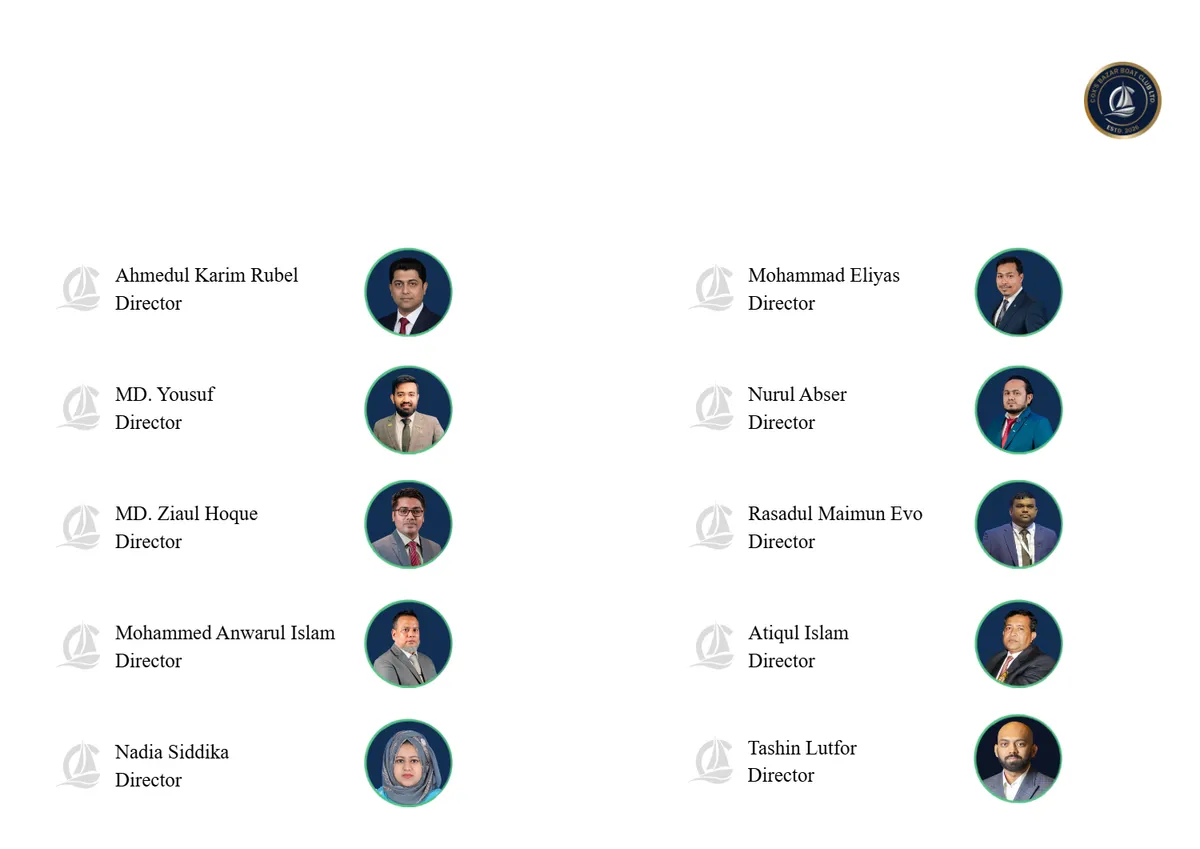
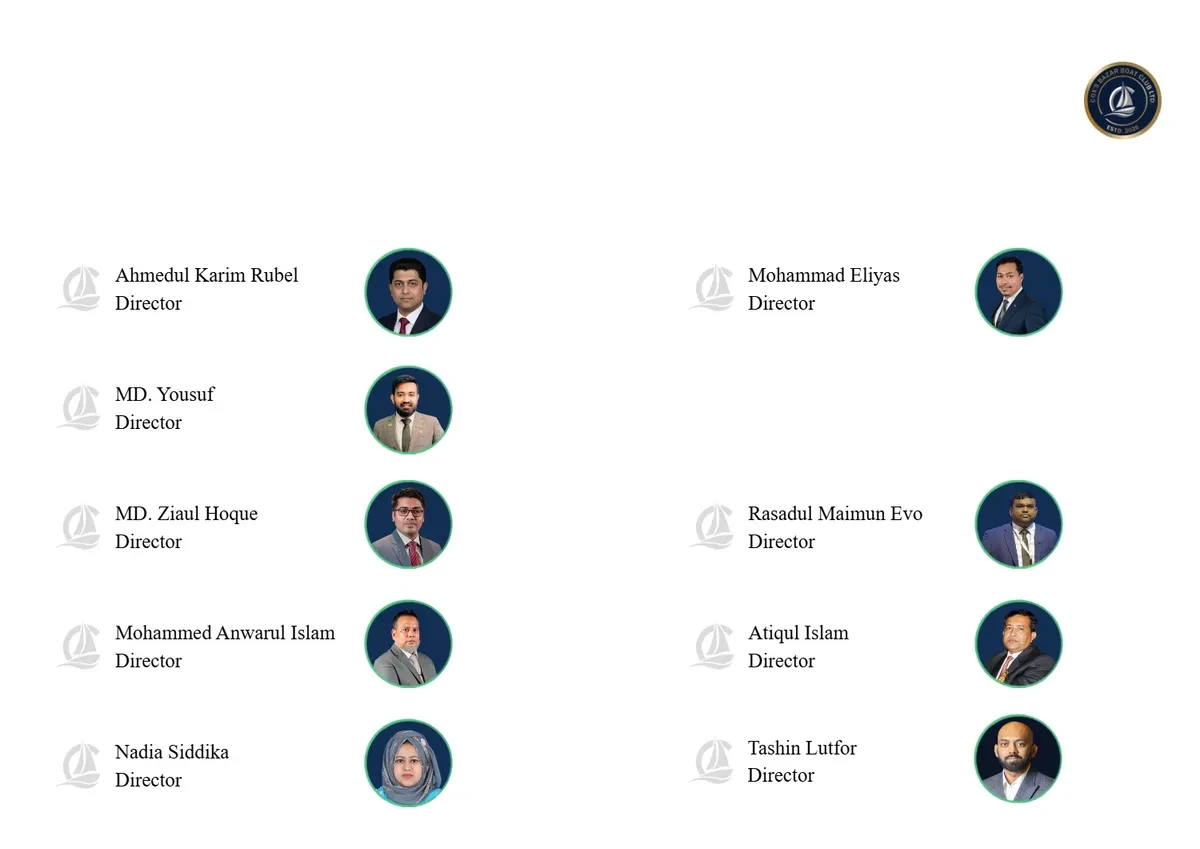
Archive Nurul Abser's profile for now (board, members, portfolio board page)
Kept in ARCHIVED_DIRECTORS in data.ts so it can be restored later.

Changed region(s): [[0.8017, 0.4287, 0.8942, 0.5512], [0.555, 0.4594, 0.7092, 0.5206]]

diff --git a/src/data.ts b/src/data.ts
@@ -635,31 +635,6 @@ export const DIRECTORS_DATA: Director[] = [
     ]
   },
   {
-    id: "nurul-absar",
-    name: "Nurul Abser",
-    designation: "Director",
-    membershipCode: "CBBCL-FM-13",
-    memberNumber: "CBBCL-LM-0013",
-    profileSubmitted: true,
-    profileRevision: 3,
-    bio: [
-      "Nurul Abser is a Founder Director of Cox's Bazar Boat Club Limited (CBBCL). He brings a diverse professional background combining humanitarian work, leadership, career development, networking, and training in the tourism and hospitality sector.",
-      "He is an experienced humanitarian professional with extensive experience working with various International Non-Governmental Organizations (INGOs) and United Nations (UN) agencies. Through his professional journey, he has developed strong expertise in coordination, leadership, stakeholder engagement, capacity building, and professional networking.",
-      "As a Founder Director of CBBCL, he is also committed to promoting tourism, hospitality, professional networking, and career development opportunities in Cox's Bazar. His experience across the humanitarian and tourism sectors enables him to connect people, organizations, and opportunities while contributing to the sustainable development of the local community and tourism industry."
-    ],
-    businessProfile: {
-      role: "Executive Director, Admin & Finance",
-      company: "Palong Group",
-      industry: ""
-    },
-    socials: {
-      // Profile names only, as he preferred not to share links.
-      linkedin: "Nurul Abser",
-      facebook: "Nurul Abser",
-      email: "nabsercxb@gmail.com"
-    }
-  },
-  {
     id: "ziaul-haque",
     name: MD_ZIAUL_HOQUE.name,
     designation: "Director",
@@ -885,6 +860,35 @@ export const DIRECTORS_DATA: Director[] = [
       { year: "2012", event: "Completed BA (Hons) in International Business, Coventry University" }
     ]
   },
+];
+
+// Archived directors: kept for the record, not shown anywhere on the site (2026-11-02: Nurul Abser).
+export const ARCHIVED_DIRECTORS: Director[] = [
+  {
+    id: "nurul-absar",
+    name: "Nurul Abser",
+    designation: "Director",
+    membershipCode: "CBBCL-FM-13",
+    memberNumber: "CBBCL-LM-0013",
+    profileSubmitted: true,
+    profileRevision: 3,
+    bio: [
+      "Nurul Abser is a Founder Director of Cox's Bazar Boat Club Limited (CBBCL). He brings a diverse professional background combining humanitarian work, leadership, career development, networking, and training in the tourism and hospitality sector.",
+      "He is an experienced humanitarian professional with extensive experience working with various International Non-Governmental Organizations (INGOs) and United Nations (UN) agencies. Through his professional journey, he has developed strong expertise in coordination, leadership, stakeholder engagement, capacity building, and professional networking.",
+      "As a Founder Director of CBBCL, he is also committed to promoting tourism, hospitality, professional networking, and career development opportunities in Cox's Bazar. His experience across the humanitarian and tourism sectors enables him to connect people, organizations, and opportunities while contributing to the sustainable development of the local community and tourism industry."
+    ],
+    businessProfile: {
+      role: "Executive Director, Admin & Finance",
+      company: "Palong Group",
+      industry: ""
+    },
+    socials: {
+      // Profile names only, as he preferred not to share links.
+      linkedin: "Nurul Abser",
+      facebook: "Nurul Abser",
+      email: "nabsercxb@gmail.com"
+    }
+  }
 ];
 
 export const FACILITIES_DATA: Facility[] = [

diff --git a/src/components/pages/Governance.tsx b/src/components/pages/Governance.tsx
@@ -41,7 +41,7 @@ export default function Governance({ initialSection = "articles" }: GovernancePr
     { title: "Finance & Audit Committee", chair: "Arifur Rahman (Director – Finance)", duty: "Enforces financial discipline, issues audited spreadsheets, manages treasury balances." },
     { title: "Membership Scrutiny Committee", chair: "Humayun Kabir Robel (Founding President)", duty: "Evaluates candidates, runs compliance background checks, confirms nomination registry entries." },
     { title: "Marine Safety & Sailing Council", chair: "Founding Director Ahmedul Karim Rubel", duty: "Sets yacht docking safety procedures, handles slipway protocols, certifies sailing dinghy licenses." },
-    { title: "Sports & Snooker Committee", chair: "Founding Director Nurul Abser", duty: "Arranges billiard tournaments, squash challenges, tennis championships, and maintains sports facilities." },
+    { title: "Sports & Snooker Committee", chair: "To be announced", duty: "Arranges billiard tournaments, squash challenges, tennis championships, and maintains sports facilities." },
     { title: "Cultural & Literary Circle", chair: "Founding Director Maimunul Karim Jisan", duty: "Organizes symphony evenings, library recitals, national day tributes, and coastal art festivals." },
     { title: "Ecological CSR Commission", chair: "Founding Director Mehedi Hasan", duty: "Initiates beachfront plastic cleanups, manages bio-engineering sand-dune stabilization." },
     { title: "Disciplinary & Ethics Panel", chair: "Founding Director Farhan Bin Rafiq", duty: "Maintains member conduct guidelines, solves grievances, enforces strict dress code codes." }

diff --git a/src/utils/storage.ts b/src/utils/storage.ts
@@ -121,7 +121,8 @@ const ROLE_CHANGES: Record<string, { fromLevel: number; level: number; designati
 
 // Directors removed from the board; filtered out of any cached board list.
 // "md-atiqul-islam" was renamed to "atiqul-islam"; the old cached entry is dropped and the new one added.
-const RETIRED_DIRECTOR_IDS = ["syfuddin-khaled", "md-atiqul-islam"];
+// "nurul-absar" is archived for now (see ARCHIVED_DIRECTORS in data.ts).
+const RETIRED_DIRECTOR_IDS = ["syfuddin-khaled", "md-atiqul-islam", "nurul-absar"];
 
 /** Old profile addresses that now live under a new id (/board/<old> opens /board/<new>). */
 export const DIRECTOR_ID_ALIASES: Record<string, string> = {

diff --git a/src/utils/memberStorage.ts b/src/utils/memberStorage.ts
@@ -52,10 +52,12 @@ const DEMO_MEMBER_IDS = [
   // Removed from the board
   "syfuddin-khaled",
   // Renamed to atiqul-islam
-  "md-atiqul-islam"
+  "md-atiqul-islam",
+  // Archived for now
+  "nurul-absar"
 ];
 const MEMBERS_SEED_KEY = "cbbcl_club_members_seed";
-const MEMBERS_SEED_VERSION = "founding-directors-v26";
+const MEMBERS_SEED_VERSION = "founding-directors-v27";
 
 
 export function getClubMembers(): ClubMember[] {
